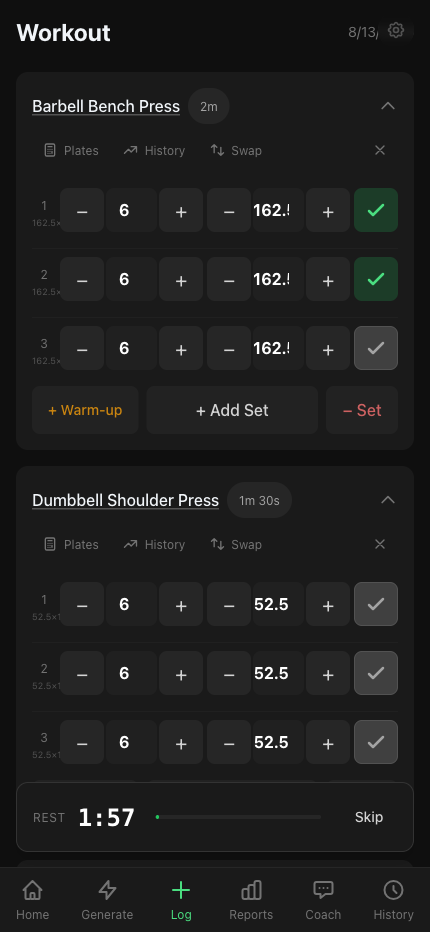
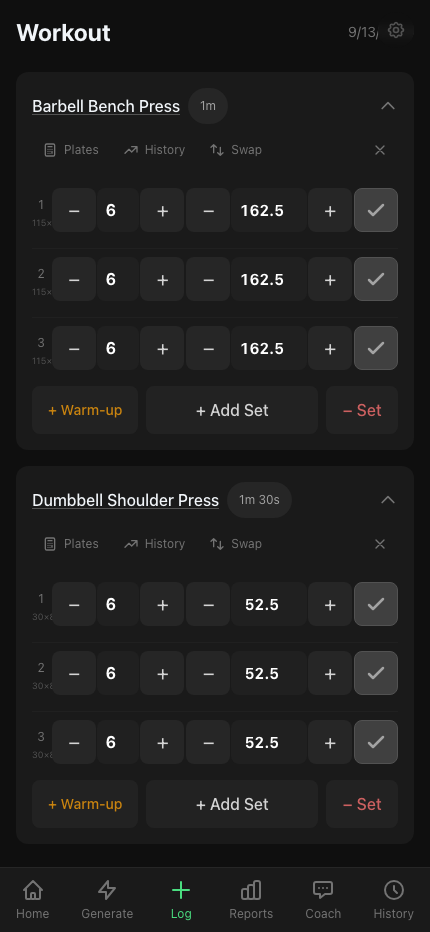
fix: weight/reps inputs clip on active workout page at 430px (#105)
* fix: weight/reps inputs clip on active workout page at 430px

The set-row grid on the active workout page (log/[id]) split reps and
weight columns evenly, leaving only ~51px for each stepper input after
the two 44px +/- buttons. A 5-char decimal weight like "162.5" needed
~58px, so it clipped mid-glyph ("162.!").

- Give the weight column more of the row's width than reps (reps rarely
  exceed 2-3 digits; weight needs up to 6 chars incl. decimal)
- Trim internal button-input gaps and the set-number column slightly to
  reclaim a few more px for the inputs
- Add tabular-nums so digit widths are consistent, and drop the weight
  input to 15px so larger values (tested up to "1002.5") have margin

Verified at 430x932 with Playwright against a scratch-DB workout:
52.5/225/162.5/1000/1002.5 lb weights and 2-3 digit rep counts all
render without clipping, and all +/- buttons and the complete button
stay at the 44x44px iOS HIG minimum tap target.

Closes #104

* docs: re-capture active-workout screenshot without weight clipping

Per #104's notes — the committed screenshot showed the clipped "162.!"
bug; re-captured at 430x932 now that the weight input renders full
values.

---------

diff --git a/packages/web/src/lib/workout/SetRow.svelte b/packages/web/src/lib/workout/SetRow.svelte
@@ -142,7 +142,7 @@
 {:else}
   <!-- Grid: [set#] [reps] [weight] [✓] — compact 4-col layout for iPhone viewport -->
   <!-- 44px tap targets = exact iOS HIG minimum -->
-  <div class="grid items-center gap-x-1 py-2 {index > 0 ? 'border-t border-neutral-800/50' : ''} {set.isWarmup ? 'opacity-70' : ''}" style="grid-template-columns: 24px minmax(0,1fr) minmax(0,1fr) 44px">
+  <div class="grid items-center gap-x-0.5 py-2 {index > 0 ? 'border-t border-neutral-800/50' : ''} {set.isWarmup ? 'opacity-70' : ''}" style="grid-template-columns: 18px minmax(0,4fr) minmax(0,5fr) 44px">
     <!-- Set number + last performance -->
     <div class="text-center">
       {#if set.isWarmup}
@@ -156,7 +156,7 @@
     </div>
 
     <!-- Reps: −/input/+ -->
-    <div class="flex items-center gap-0.5">
+    <div class="flex items-center gap-px">
       <button
         onpointerdown={() => pressReps(-1)}
         onpointerup={clearHold}
@@ -169,7 +169,7 @@
         type="number"
         value={set.reps ?? 0}
         onchange={(e) => { set.reps = Math.max(0, parseInt(e.currentTarget.value) || 0); }}
-        class="flex-1 min-w-0 h-11 text-center text-base font-bold rounded-lg bg-neutral-800/50 text-white border-none outline-none"
+        class="flex-1 min-w-0 h-11 px-0.5 text-center text-base font-bold tabular-nums rounded-lg bg-neutral-800/50 text-white border-none outline-none"
         inputmode="numeric"
         min="0"
       />
@@ -184,7 +184,7 @@
     </div>
 
     <!-- Weight: −/input/+ -->
-    <div class="flex items-center gap-0.5">
+    <div class="flex items-center gap-px">
       <button
         onpointerdown={() => pressWeight(-5)}
         onpointerup={clearHold}
@@ -197,7 +197,7 @@
         type="number"
         value={kgToLbs(set.weightKg)}
         onchange={(e) => updateWeightLbs(set, e.currentTarget.value)}
-        class="flex-1 min-w-0 h-11 text-center text-base font-bold rounded-lg bg-neutral-800/50 text-white border-none outline-none"
+        class="flex-1 min-w-0 h-11 px-0.5 text-center text-[15px] font-bold tabular-nums rounded-lg bg-neutral-800/50 text-white border-none outline-none"
         step="2.5"
         inputmode="decimal"
       />
